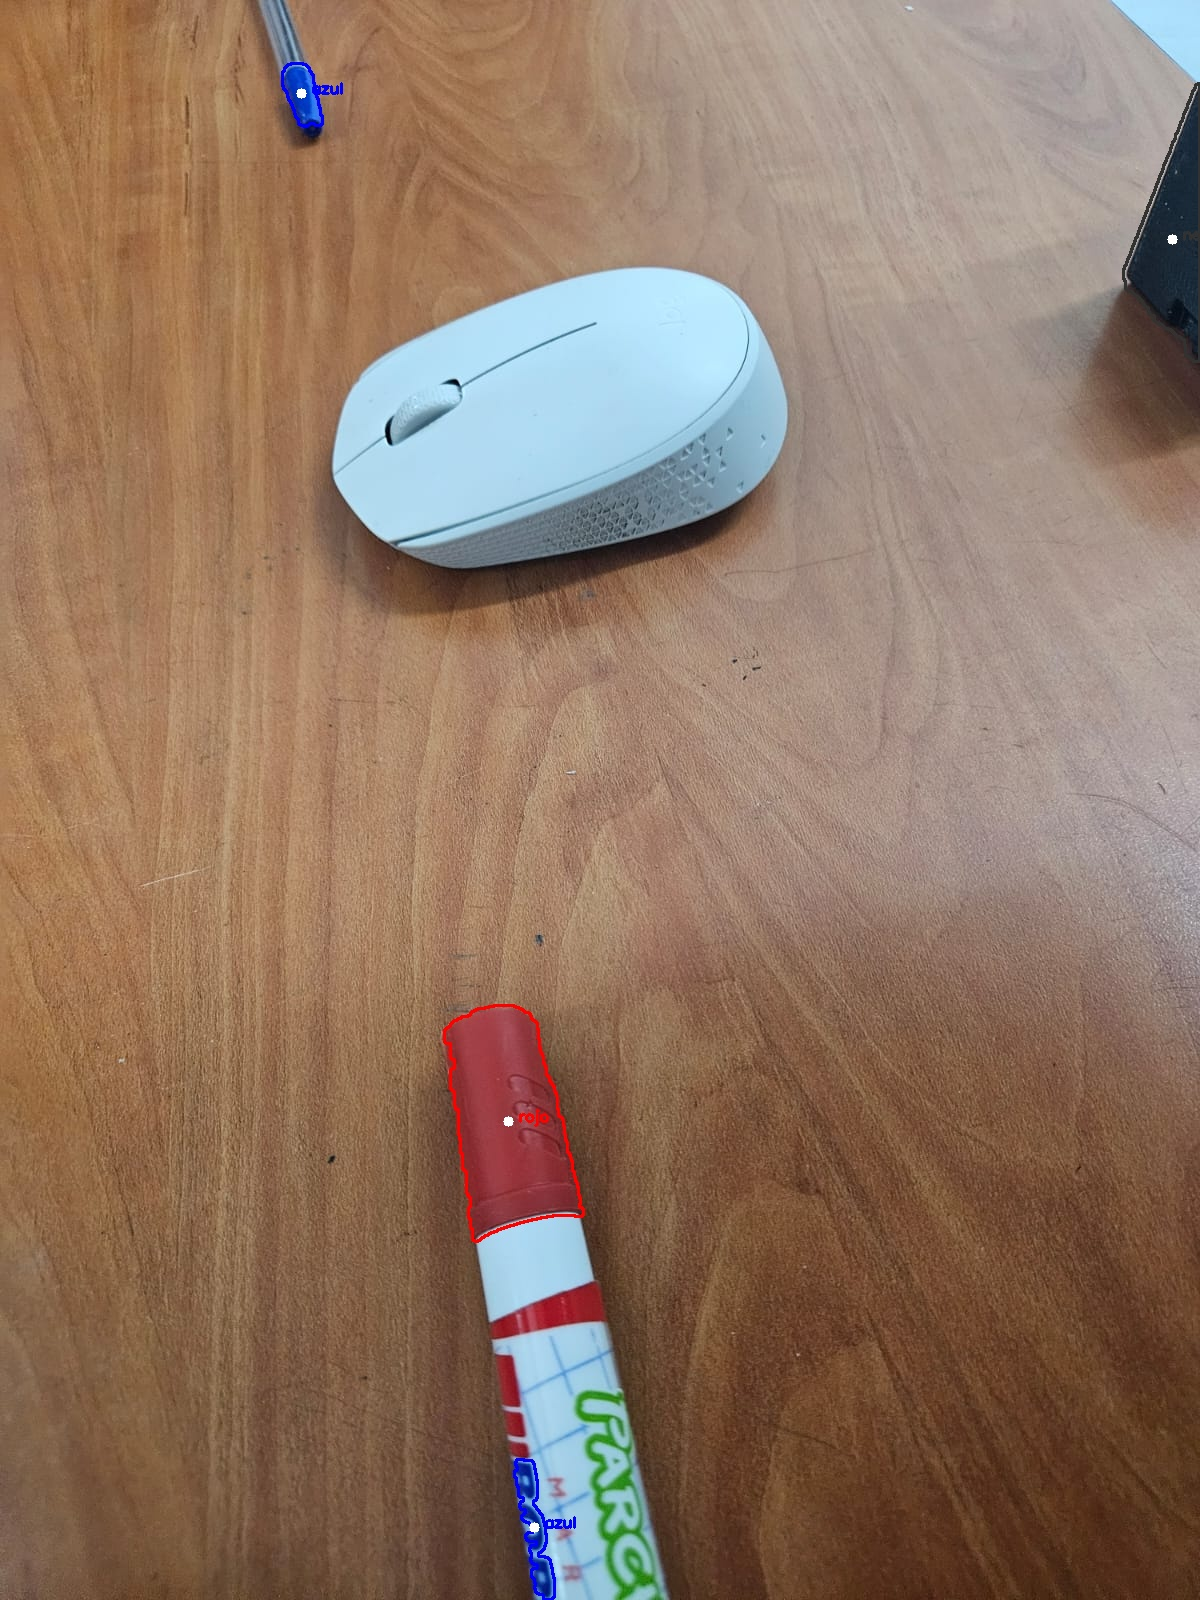
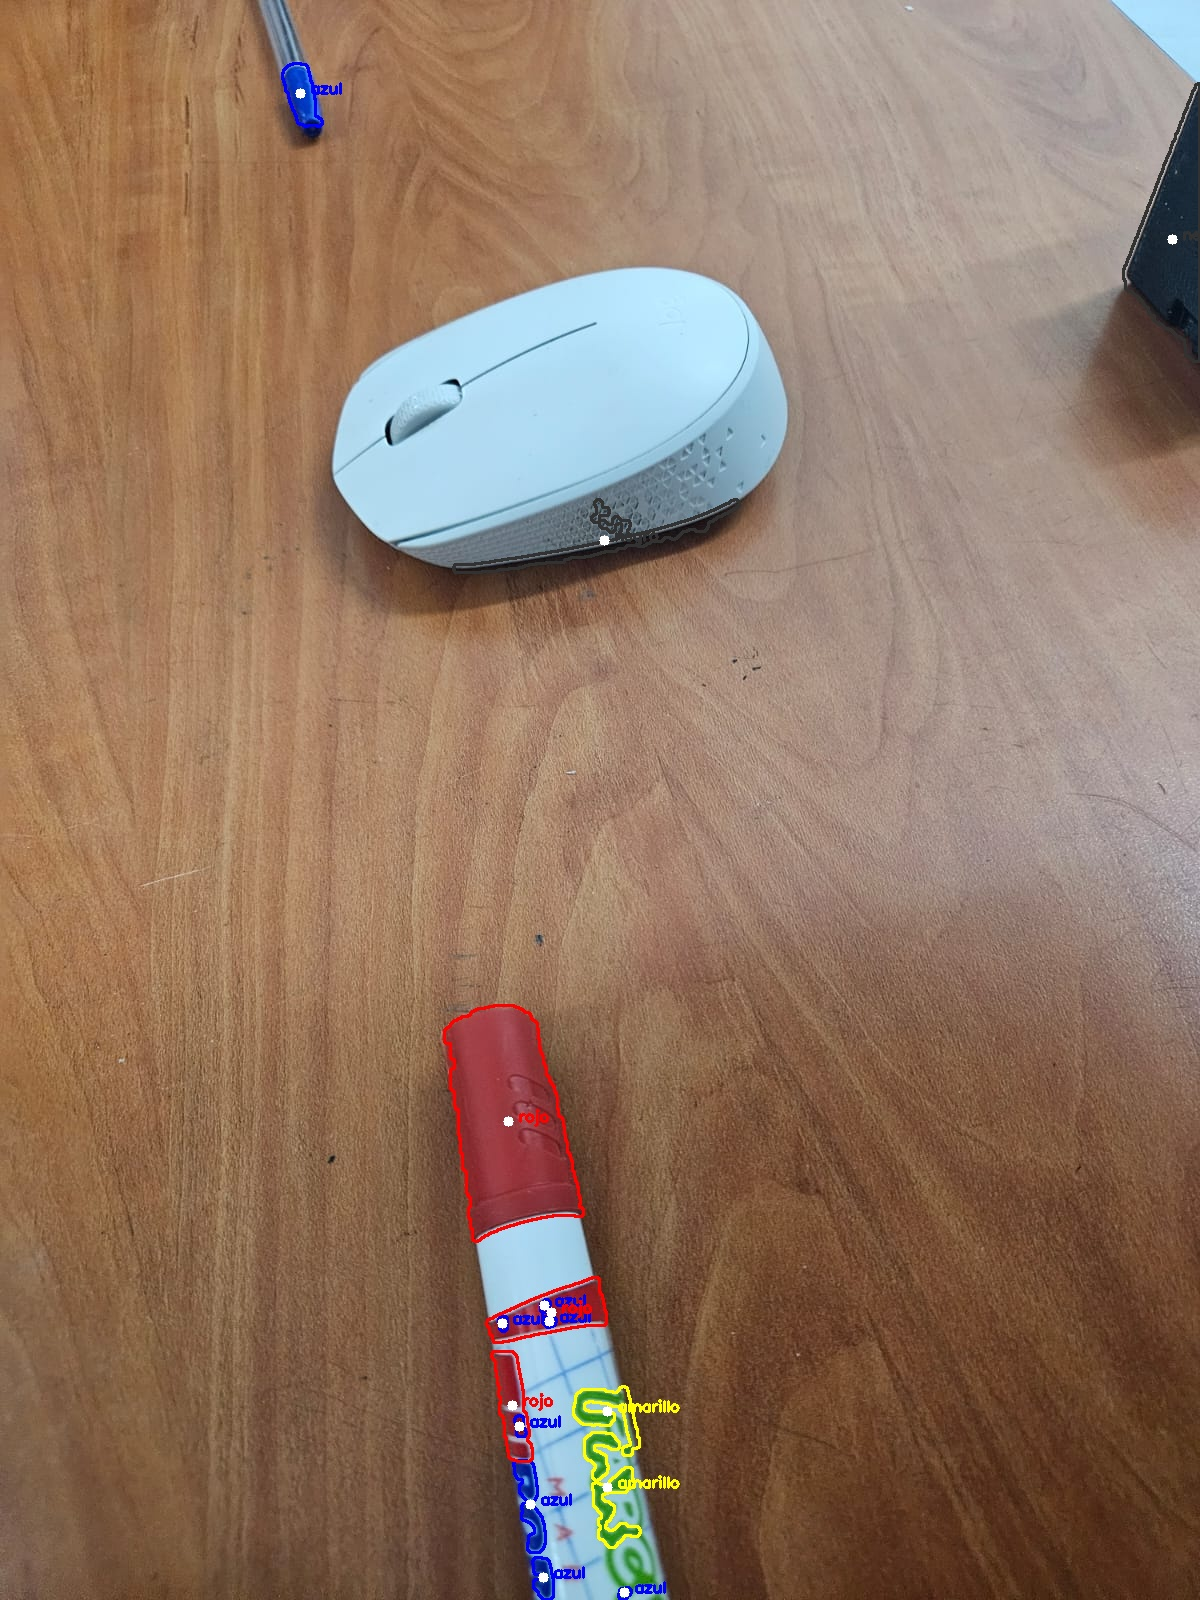
feat: new settings to gcp points

diff --git a/scripts/file.py b/scripts/file.py
@@ -10,10 +10,9 @@ OUTPUT_TXT = Path("scripts/gcp_list.txt")
 
 # Coordenadas simuladas por color
 color_a_coord = {
-    "azul": (0, 0, 0),  # esquina inferior izquierda
-    "amarillo": (20, 0, 0),  # esquina inferior derecha
-    "negro": (0, 20, 0),  # esquina superior izquierda
-    "rojo": (20, 20, 0),  # esquina superior derecha y elevación para alinear plano
+    "azul": (0, 0, 0),
+    "rojo": (20, 0, 0),
+    "negro": (0, 20, 0),
 }
 
 
@@ -23,8 +22,8 @@ def detectar_gcps(img, filename):
     # 🎯 Rango HSV para cada color
     color_ranges = {
         "azul": {
-            "lower": (54, 230, 121),
-            "upper": (180, 255, 255),
+            "lower": (0, 195, 157),
+            "upper": (128, 255, 255),
             "bgr": (255, 0, 0),
         },
         "rojo": {
@@ -37,17 +36,13 @@ def detectar_gcps(img, filename):
             "upper": (169, 255, 62),
             "bgr": (50, 50, 50),
         },
-        "amarillo": {
-            "lower": (25, 32, 0),
-            "upper": (57, 255, 255),
-            "bgr": (0, 255, 255),
-        },
     }
 
     detecciones = []
 
     for color_name, params in color_ranges.items():
         mask = cv2.inRange(hsv, params["lower"], params["upper"])
+
         blur = cv2.GaussianBlur(mask, (9, 9), 0)
         kernel = cv2.getStructuringElement(cv2.MORPH_RECT, (3, 3))
         clean = cv2.morphologyEx(blur, cv2.MORPH_CLOSE, kernel, iterations=1)
@@ -58,18 +53,14 @@ def detectar_gcps(img, filename):
 
         for cnt in contours:
             area = cv2.contourArea(cnt)
-
             if color_name == "azul":
-                if area < 100 or area > 30000:
+                if area < 1100 or area > 30000:
                     continue
             elif color_name == "rojo":
-                if area < 2500 or area > 30000:
+                if area < 7000 or area > 30000:
                     continue
-            elif color_name == "negro":
-                if area < 2500 or area > 30000:
-                    continue
-            elif color_name == "amarillo":
-                if area < 1500 or area > 60000:
+            else:
+                if area < 4000 or area > 30000:
                     continue
 
             M = cv2.moments(cnt)
@@ -112,10 +103,12 @@ def main():
         cv2.imwrite(str(OUTPUT_DIR / file.name), salida)
 
     with open(OUTPUT_TXT, "w") as f:
-        # f.write("+proj=utm +zone=17 +datum=WGS84 +units=m +no_defs\n")
+        # f.write("WGS84 UTM 17S\n")  # Header para WebODM
+        f.write("+proj=local +zone=18 +ellps=WGS84 +datum=WGS84 +units=m +no_defs\n")
         for d in all_detecciones:
             if d["color"] in color_a_coord:
                 x, y, z = color_a_coord[d["color"]]
+                # f.write(f"{x},{y},{z},{d['filename']},{d['cx']},{d['cy']}\n")
                 f.write(f"{x} {y} {z} {d['cx']} {d['cy']} {d['filename']}\n")
 
     print("✅ Detección completada.")
